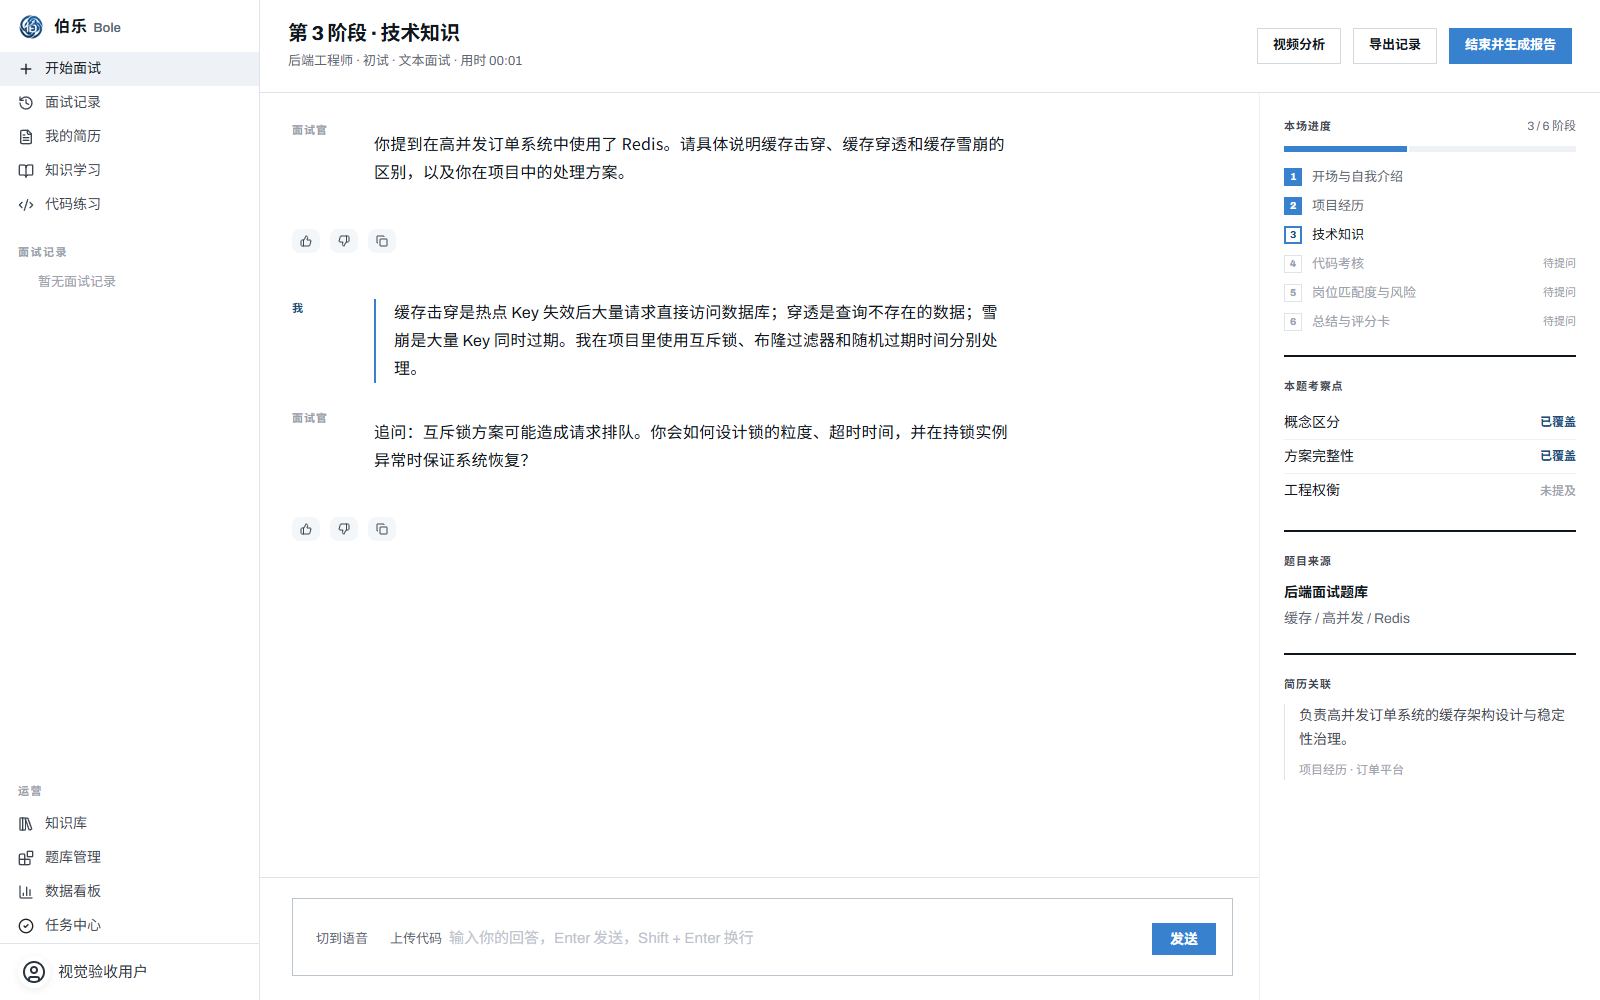
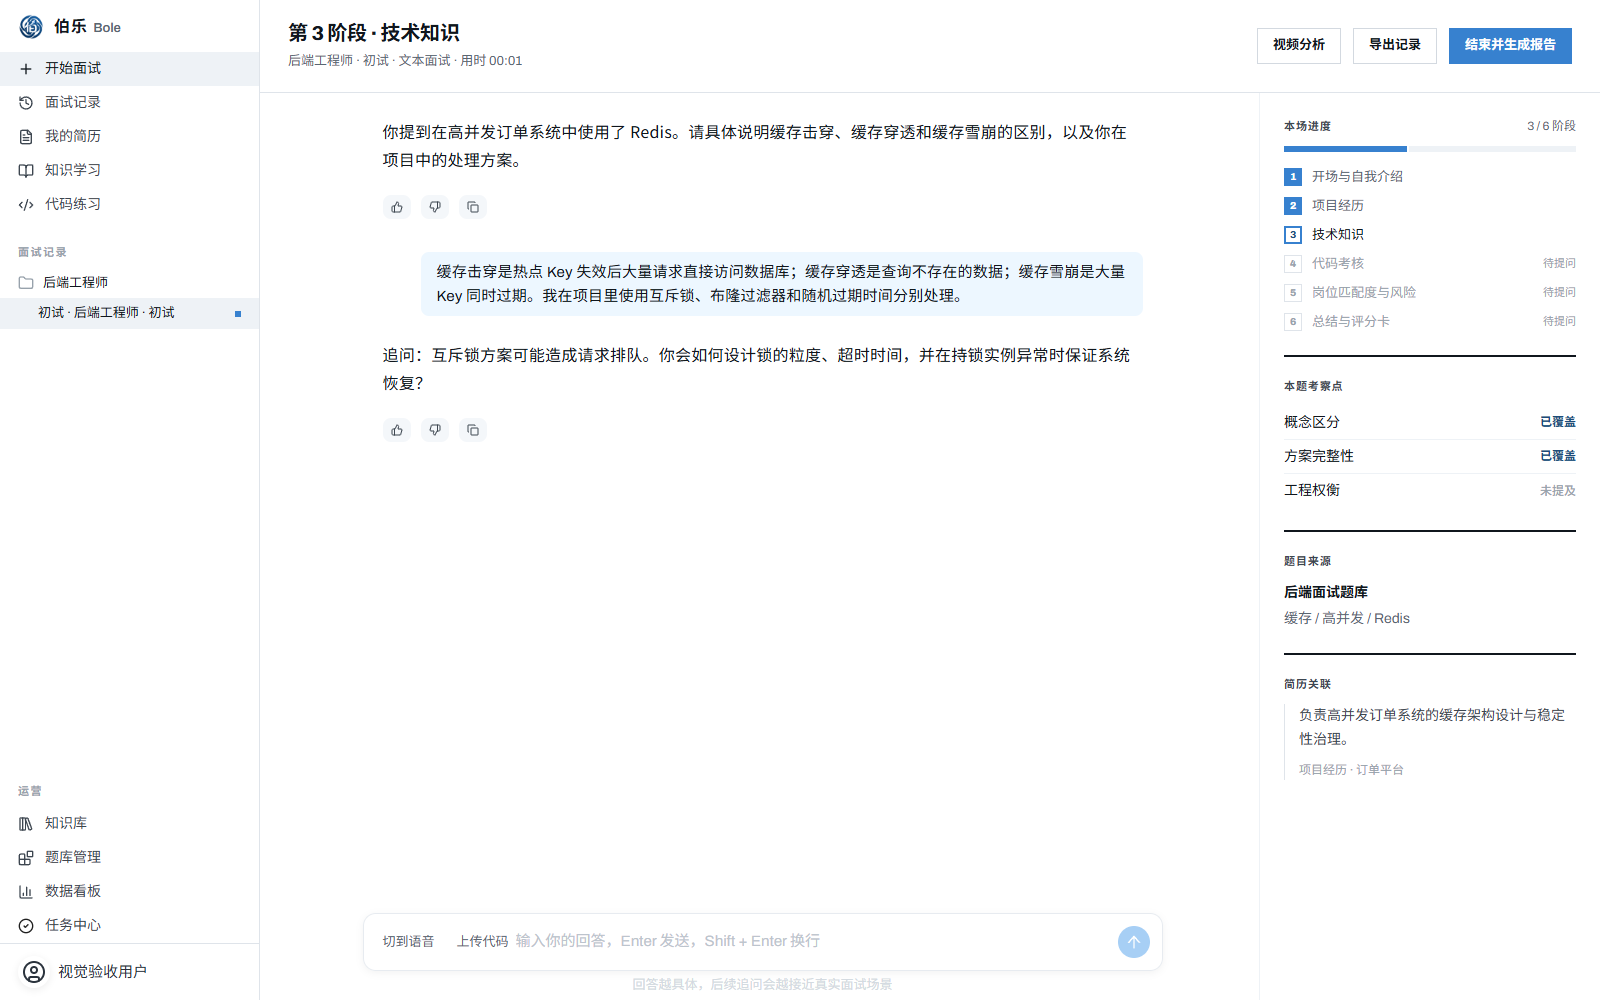
fix(web): 恢复面试对话区原版样式

diff --git a/web/src/components/AgentChatComponent.vue b/web/src/components/AgentChatComponent.vue
@@ -1,11 +1,5 @@
 <template>
-  <div
-    class="chat-container"
-    :class="[
-      { 'sidebar-right': props.sidebarPlacement === 'right' },
-      `conversation-variant--${props.conversationVariant}`
-    ]"
-  >
+  <div class="chat-container" :class="{ 'sidebar-right': props.sidebarPlacement === 'right' }">
     <ChatSidebarComponent
       v-if="props.showSidebar"
       :current-chat-id="currentChatId"
@@ -78,26 +72,19 @@
         <div class="chat-main" ref="chatMainContainer">
           <div class="chat-box" ref="messagesContainer">
             <div class="conv-box" v-for="(conv, index) in conversations" :key="index">
-              <div
+              <AgentMessageComponent
                 v-for="(message, msgIndex) in conv.messages"
+                :message="message"
                 :key="msgIndex"
-                class="agent-message-row"
-                :class="[`agent-message-row--${message.type}`]"
+                :is-processing="
+                  isProcessing &&
+                  conv.status === 'streaming' &&
+                  msgIndex === conv.messages.length - 1
+                "
+                :show-refs="showMsgRefs(message)"
+                @retry="retryMessage(message)"
               >
-                <span v-if="props.conversationVariant === 'interview'" class="message-role-label">
-                  {{ message.type === 'human' ? '我' : '面试官' }}
-                </span>
-                <AgentMessageComponent
-                  :message="message"
-                  :is-processing="
-                    isProcessing &&
-                    conv.status === 'streaming' &&
-                    msgIndex === conv.messages.length - 1
-                  "
-                  :show-refs="showMsgRefs(message)"
-                  @retry="retryMessage(message)"
-                />
-              </div>
+              </AgentMessageComponent>
               <!-- 显示对话最后一个消息使用的模型 -->
               <RefsComponent
                 v-if="shouldShowRefs(conv)"
@@ -176,7 +163,6 @@
                 :disabled="!currentAgent"
                 :send-button-disabled="(!userInput || !currentAgent) && !isProcessing"
                 :placeholder="inputPlaceholder"
-                :send-button-text="props.conversationVariant === 'interview' ? '发送' : ''"
                 :supports-file-upload="
                   props.conversationVariant === 'interview' ? false : supportsFileUpload
                 "
@@ -2437,100 +2423,6 @@ watch(
   display: flex;
   flex-direction: column;
   gap: 4px;
-}
-
-.agent-message-row {
-  display: contents;
-}
-
-.conversation-variant--interview {
-  .chat-box {
-    max-width: none;
-    padding: 28px 32px;
-    gap: 26px;
-  }
-
-  .conv-box {
-    gap: 26px;
-  }
-
-  .agent-message-row {
-    display: grid;
-    grid-template-columns: 64px minmax(0, 640px);
-    gap: 18px;
-    align-items: start;
-  }
-
-  .message-role-label {
-    padding-top: 3px;
-    font-size: 11px;
-    line-height: 1.2;
-    font-weight: 800;
-    letter-spacing: 0.08em;
-    text-transform: uppercase;
-    color: var(--gray-500);
-  }
-
-  .agent-message-row--human .message-role-label {
-    color: var(--main-800);
-  }
-
-  .agent-message-row :deep(.message-box) {
-    width: 100%;
-    max-width: 640px;
-    margin: 0;
-    padding: 0;
-    border-radius: 0;
-    background: transparent;
-    font-size: 16px;
-    line-height: 1.75;
-    color: var(--gray-1000);
-    align-self: auto;
-  }
-
-  .agent-message-row--human :deep(.message-box) {
-    border-left: 2px solid var(--main-color);
-    padding-left: 18px;
-  }
-
-  .bottom {
-    padding: 20px 32px 24px;
-    border-top: 1px solid var(--gray-200);
-  }
-
-  .bottom .message-input-wrapper {
-    max-width: none;
-  }
-
-  .bottom :deep(.input-box) {
-    min-height: 78px;
-    padding: 14px 16px 10px;
-    border: 1px solid var(--gray-400);
-    border-radius: 0;
-    box-shadow: none;
-    background: var(--gray-0);
-  }
-
-  .bottom :deep(.send-button.ant-btn-icon-only) {
-    border-radius: 0;
-    box-shadow: none;
-  }
-
-  .bottom :deep(.send-button) {
-    width: auto;
-    min-width: 64px;
-    height: 32px;
-    padding: 0 14px;
-    border-radius: 0;
-    box-shadow: none;
-    background: var(--main-color);
-    color: var(--gray-0);
-    font-weight: 700;
-  }
-
-  .bottom .note {
-    display: none;
-  }
 }
 
 .bottom {

diff --git a/web/src/components/AgentInputArea.vue b/web/src/components/AgentInputArea.vue
@@ -8,7 +8,6 @@
     :disabled="disabled"
     :send-button-disabled="sendButtonDisabled"
     :placeholder="placeholder"
-    :send-button-text="sendButtonText"
     :force-multi-line="hasStateContent"
     :mention="mention"
     @send="handleSend"
@@ -66,7 +65,6 @@ const props = defineProps({
   disabled: { type: Boolean, default: false },
   sendButtonDisabled: { type: Boolean, default: false },
   placeholder: { type: String, default: '输入问题...' },
-  sendButtonText: { type: String, default: '' },
   supportsFileUpload: { type: Boolean, default: false },
   agentId: { type: String, default: '' },
   threadId: { type: String, default: null },

diff --git a/web/src/components/MessageInputComponent.vue b/web/src/components/MessageInputComponent.vue
@@ -103,10 +103,9 @@
           type="link"
           class="send-button"
         >
-          <template v-if="!sendButtonText || isLoading" #icon>
+          <template #icon>
             <component :is="getIcon" class="send-btn" />
           </template>
-          <span v-if="sendButtonText && !isLoading">{{ sendButtonText }}</span>
         </a-button>
       </a-tooltip>
     </div>
@@ -163,10 +162,6 @@ const props = defineProps({
   sendButtonDisabled: {
     type: Boolean,
     default: false
-  },
-  sendButtonText: {
-    type: String,
-    default: ''
   },
   autoSize: {
     type: Object,
